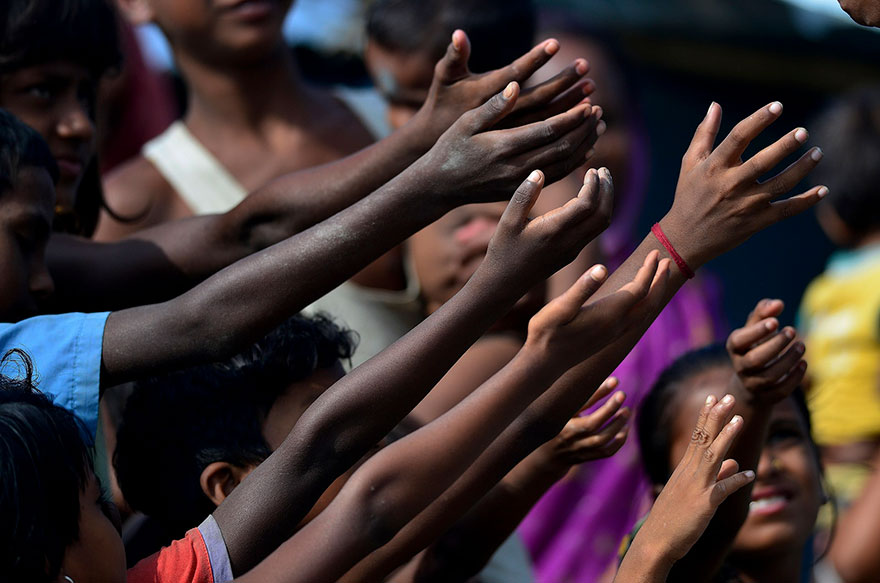
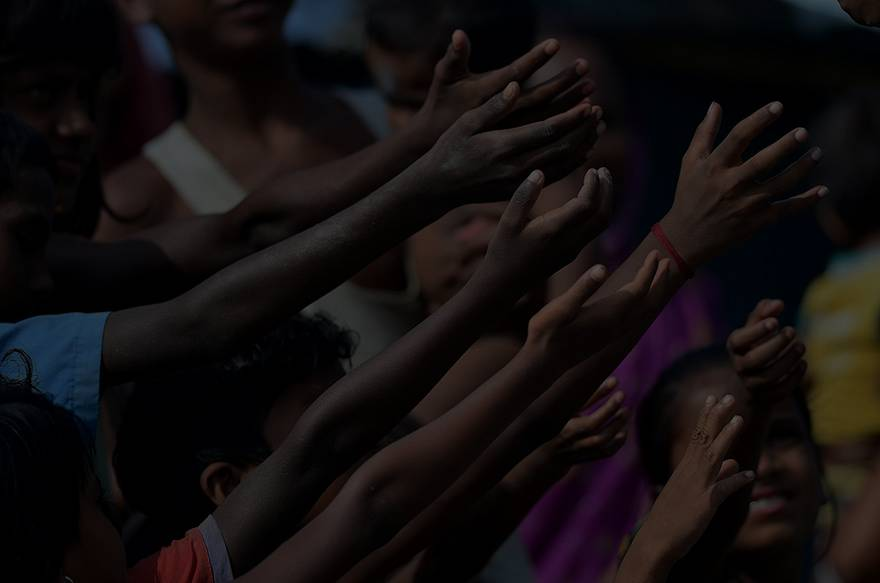
who are help section done

diff --git a/style.css b/style.css
@@ -121,6 +121,7 @@ input[type="text"]{
 .donate-plan-content img{
     height: 80px;
     width: 80px;
+    margin-top: 20px;
 }
 .donate-plan-content h3{
     font-size: 30px;
@@ -129,7 +130,7 @@ input[type="text"]{
 #donate-plan .donate-plan-content p{
     font-size: 20px !important;
     font-weight: 500;
-    margin: 0;
+    width: 100%;
 }
 .donate-plan-content .plan-item-1{
     background-color: #ECF4F5;
@@ -154,4 +155,83 @@ input[type="text"]{
     height: 500px;
     width: 33%;
 }
-
+#help{
+    display: flex;
+    justify-content: center;
+    align-items: center;
+    text-align: center;
+    width: 70%;
+    margin: 0 auto;
+    margin-top: 200px;
+}
+.help-left{
+    text-align: left;
+    width: 50%;
+    padding-right: 50px;
+}
+.help-left h1 {
+    font-size: 50px;
+    font-weight: 700;
+}
+.help-left p{
+    font-size: 20px;
+    line-height: 30px;
+    margin-bottom: 50px;
+}
+.help-left a{
+    padding: 10px 20px;
+    font-size: 18px;
+    margin-right: 20px;
+    font-weight: 500;
+}
+.help-left .volunteer-btn{
+    text-decoration: none;
+    color: #fff;
+    font-size: 18px;
+    background-color:#0B3E03;
+    padding: 10px 20px;
+    margin-right: 20px;
+    border-radius: 7px;
+    font-weight: 500;
+}
+.help-right img{
+    height: 100%;
+    box-shadow: 2px 2px 20px #000;
+}
+#who-are-help{
+    background-image: url(images/donation13.jpg);
+    background-repeat: no-repeat;
+    background-size: cover;
+    height: 500px;
+    text-align: center;
+    padding: 50px 0;
+    margin-top: 150px;
+}
+.who-are-help-content{
+    width: 70%;
+    margin: 0 auto;
+}
+.who-are-help-content p{
+    font-size: 50px;
+    font-weight: 500;
+    color: #fff;
+    margin-bottom: 100px;
+}
+.feature-btn{
+    text-decoration: none;
+    font-size: 20px;
+    color: #fff;
+    padding: 15px 20px;
+    background-color: #FF5958;
+    border-radius: 5px;
+    margin-right: 10px;
+}
+.contact-btn{
+    text-decoration: none;
+    font-size: 20px;
+    color: #fff;
+    padding: 15px 20px;
+    border:2px solid #FF5958;
+    border-radius: 5px;
+    margin-right: 10px;
+}

diff --git a/index.html b/index.html
@@ -71,6 +71,29 @@
             </div>
         </div>
     </section>
+    <Section id="help">
+        <div class="help-left">
+            <h1>We Need Your Help</h1>
+            <p>Charities also began to adopt campaigning roles, where they would champion a cause and lobby the
+                government for legislative change. This included organized campaigns against the ill treatment of
+                animals and children and the campaign that eventually succeeded at the turn</p>
+            <a class="donate-btn" href="#">Donate Now</a>
+            <a class="volunteer-btn" href="#">Become a Volunteer</a>
+        </div>
+        <div class="help-right">
+            <img src="images/donation11.jpg" alt="">
+        </div>
+    </Section>
+    <section id="who-are-help">
+        <div class="who-are-help-content">
+            <img src="icons/icon-1.png" alt="">
+            <p>The Number Of People Who
+                Have Taken Action With Us On Our Save
+                Wildlife Campaign</p>
+            <a class="feature-btn" href="#">Explor Features</a>
+            <a class="contact-btn" href="#">Our Contact</a>
+        </div>
+    </section>
 </body>
 
 </html>
